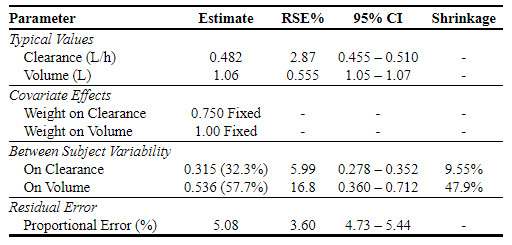
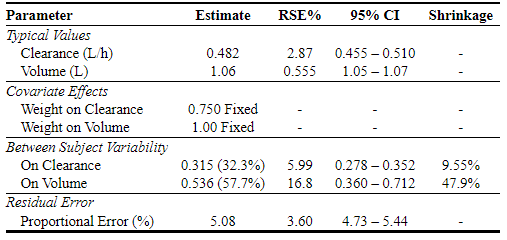
Adjust line thickness

diff --git a/vignettes/pmxpartab-vignette.html b/vignettes/pmxpartab-vignette.html
@@ -17,7 +17,7 @@
 <title>Introduction to pmxpartab</title>
 
[1 lines of base64/hex data omitted]
-<link href="data:text/css,%2ERpmxpartab%20thead%20%7B%0Aborder%2Dtop%3A%201%2E5pt%20solid%20black%3B%0Aborder%2Dbottom%3A%200%2E75pt%20solid%20black%3B%0A%7D%0A%2ERpmxpartab%20tbody%20%7B%0Aborder%2Dtop%3A%200%2E75pt%20solid%20black%3B%0Aborder%2Dbottom%3A%201%2E5pt%20solid%20black%3B%0A%7D%0A%2ERpmxpartab%20thead%3Etr%3Afirst%2Dchild%20%7B%0Aborder%2Dtop%3A%201%2E5pt%20solid%20black%3B%0A%7D%0A%2ERpmxpartab%20thead%3Etr%3Alast%2Dchild%20%7B%0Aborder%2Dbottom%3A%200%2E75pt%20solid%20black%3B%0A%7D%0A%2ERpmxpartab%20thead%3Etr%3Afirst%2Dchild%3Eth%20%7B%0Aborder%2Dtop%3A%201%2E5pt%20solid%20black%3B%0A%7D%0A%2ERpmxpartab%20thead%3Etr%3Alast%2Dchild%3Eth%20%7B%0Aborder%2Dbottom%3A%200%2E75pt%20solid%20black%3B%0A%7D%0A%2ERpmxpartab%20tbody%3Etr%3Afirst%2Dchild%3Etd%20%7B%0Aborder%2Dtop%3A%201%2E5pt%20solid%20black%3B%0A%7D%0A%2ERpmxpartab%20tbody%3Etr%3Alast%2Dchild%3Etd%20%7B%0Aborder%2Dbottom%3A%201%2E5pt%20solid%20black%3B%0A%7D%0A%2ERpmxpartab%20thead%3Etr%3Eth%3Afirst%2Dchild%20%7B%0Atext%2Dalign%3A%20left%3B%0Apadding%2Dleft%3A%200%3B%0A%7D%0A%2ERpmxpartab%20table%20%7B%0Afont%2Dfamily%3A%20%22Times%20New%20Roman%22%2C%20Times%2C%20serif%3B%0Afont%2Dsize%3A%2010pt%3B%0Aborder%2Dcollapse%3A%20collapse%3B%0Apadding%3A%200px%3B%0Amargin%3A%200px%3B%0Aborder%2Dleft%3A%200%3B%0Aborder%2Dright%3A%200%3B%0A%7D%0A%2ERpmxpartab%20th%2C%20%2ERpmxpartab%20td%20%7B%0Apadding%3A%200%2E1ex%201ex%3B%0Atext%2Dalign%3A%20center%3B%0Awhite%2Dspace%3Anowrap%3B%0A%0A%7D%0A%2ERpmxpartab%20th%20%7B%0Apadding%2Dtop%3A%200%2E5ex%3B%0Aborder%2Dbottom%3A%200%2E75pt%20solid%20black%3B%0Avertical%2Dalign%3A%20center%3B%0Abackground%2Dcolor%3A%20%23fff%3B%0A%7D%0A%2ERpmxpartab%20td%20%7B%0Avertical%2Dalign%3A%20top%3B%0A%7D%0A%2ERpmxpartab%20%2Erowlabel%20%7B%0Atext%2Dalign%3A%20left%3B%0A%7D%0A%2ERpmxpartab%20%2Etabletitle%20%7B%0Afont%2Dfamily%3A%20%22Times%20New%20Roman%22%2C%20Times%2C%20serif%3B%0Afont%2Dsize%3A%2012pt%3B%0Afont%2Dweight%3A%20bold%3B%0A%7D%0A%2ERpmxpartab%20%2Etablefooter%20%7B%0Afont%2Dfamily%3A%20%22Times%20New%20Roman%22%2C%20Times%2C%20serif%3B%0Afont%2Dsize%3A%2010pt%3B%0A%7D%0A%2ERpmxpartab%20td%2Epartabsectionheading%20%7B%0Atext%2Dalign%3A%20left%3B%0Afont%2Dstyle%3A%20italic%3B%0Apadding%2Dleft%3A%200%3B%0Aborder%2Dtop%3A%200%2E75pt%20solid%20black%3B%0A%7D%0A%2ERpmxpartab%20td%2Epartablabelnoindent%20%7B%0Atext%2Dalign%3A%20left%3B%0Apadding%2Dleft%3A%200em%3B%0A%7D%0A%2ERpmxpartab%20td%2Epartablabelindent%20%7B%0Atext%2Dalign%3A%20left%3B%0Apadding%2Dleft%3A%201em%3B%0A%7D%0A%2ERpmxpartab%20tfoot%20%7B%0Adisplay%3A%20block%3B%0A%7D%0A%2ERpmxpartab%20tfoot%20tr%20%7B%0Adisplay%3A%20block%3B%0A%7D%0A%2ERpmxpartab%20tfoot%20td%2Epartabfootnote%20%7B%0Adisplay%3A%20block%3B%0Afont%2Dsize%3A%20smaller%3B%0Apadding%3A%200px%3B%0Amargin%3A%200px%3B%0Atext%2Dalign%3A%20left%3B%0A%7D%0A%2ERpmxpartab%20tfoot%20td%2Epartabfootnote%20p%20%7B%0Amargin%3A%201ex%200ex%3B%0A%7D%0A" rel="stylesheet" />
+<link href="data:text/css,%2ERpmxpartab%20thead%20%7B%0Aborder%2Dtop%3A%201%2E5pt%20solid%20black%3B%0Aborder%2Dbottom%3A%200%2E75pt%20solid%20black%3B%0A%7D%0A%2ERpmxpartab%20tbody%20%7B%0Aborder%2Dtop%3A%200%2E75pt%20solid%20black%3B%0Aborder%2Dbottom%3A%201%2E5pt%20solid%20black%3B%0A%7D%0A%2ERpmxpartab%20thead%3Etr%3Afirst%2Dchild%20%7B%0Aborder%2Dtop%3A%201%2E5pt%20solid%20black%3B%0A%7D%0A%2ERpmxpartab%20thead%3Etr%3Alast%2Dchild%20%7B%0Aborder%2Dbottom%3A%200%2E75pt%20solid%20black%3B%0A%7D%0A%2ERpmxpartab%20thead%3Etr%3Afirst%2Dchild%3Eth%20%7B%0Aborder%2Dtop%3A%201%2E5pt%20solid%20black%3B%0A%7D%0A%2ERpmxpartab%20thead%3Etr%3Alast%2Dchild%3Eth%20%7B%0Aborder%2Dbottom%3A%200%2E75pt%20solid%20black%3B%0A%7D%0A%2ERpmxpartab%20tbody%3Etr%3Afirst%2Dchild%3Etd%20%7B%0Aborder%2Dtop%3A%200%2E75pt%20solid%20black%3B%0A%7D%0A%2ERpmxpartab%20tbody%3Etr%3Alast%2Dchild%3Etd%20%7B%0Aborder%2Dbottom%3A%201%2E5pt%20solid%20black%3B%0A%7D%0A%2ERpmxpartab%20thead%3Etr%3Eth%3Afirst%2Dchild%20%7B%0Atext%2Dalign%3A%20left%3B%0Apadding%2Dleft%3A%200%3B%0A%7D%0A%2ERpmxpartab%20table%20%7B%0Afont%2Dfamily%3A%20%22Times%20New%20Roman%22%2C%20Times%2C%20serif%3B%0Afont%2Dsize%3A%2010pt%3B%0Aborder%2Dcollapse%3A%20collapse%3B%0Apadding%3A%200px%3B%0Amargin%3A%200px%3B%0Aborder%2Dleft%3A%200%3B%0Aborder%2Dright%3A%200%3B%0A%7D%0A%2ERpmxpartab%20th%2C%20%2ERpmxpartab%20td%20%7B%0Apadding%3A%200%2E1ex%201ex%3B%0Atext%2Dalign%3A%20center%3B%0Awhite%2Dspace%3Anowrap%3B%0A%0A%7D%0A%2ERpmxpartab%20th%20%7B%0Apadding%2Dtop%3A%200%2E5ex%3B%0Aborder%2Dbottom%3A%200%2E75pt%20solid%20black%3B%0Avertical%2Dalign%3A%20center%3B%0Abackground%2Dcolor%3A%20%23fff%3B%0A%7D%0A%2ERpmxpartab%20td%20%7B%0Avertical%2Dalign%3A%20top%3B%0A%7D%0A%2ERpmxpartab%20%2Erowlabel%20%7B%0Atext%2Dalign%3A%20left%3B%0A%7D%0A%2ERpmxpartab%20%2Etabletitle%20%7B%0Afont%2Dfamily%3A%20%22Times%20New%20Roman%22%2C%20Times%2C%20serif%3B%0Afont%2Dsize%3A%2012pt%3B%0Afont%2Dweight%3A%20bold%3B%0A%7D%0A%2ERpmxpartab%20%2Etablefooter%20%7B%0Afont%2Dfamily%3A%20%22Times%20New%20Roman%22%2C%20Times%2C%20serif%3B%0Afont%2Dsize%3A%2010pt%3B%0A%7D%0A%2ERpmxpartab%20td%2Epartabsectionheading%20%7B%0Atext%2Dalign%3A%20left%3B%0Afont%2Dstyle%3A%20italic%3B%0Apadding%2Dleft%3A%200%3B%0Aborder%2Dtop%3A%200%2E75pt%20solid%20black%3B%0A%7D%0A%2ERpmxpartab%20td%2Epartablabelnoindent%20%7B%0Atext%2Dalign%3A%20left%3B%0Apadding%2Dleft%3A%200em%3B%0A%7D%0A%2ERpmxpartab%20td%2Epartablabelindent%20%7B%0Atext%2Dalign%3A%20left%3B%0Apadding%2Dleft%3A%201em%3B%0A%7D%0A%2ERpmxpartab%20tfoot%20%7B%0Adisplay%3A%20block%3B%0A%7D%0A%2ERpmxpartab%20tfoot%20tr%20%7B%0Adisplay%3A%20block%3B%0A%7D%0A%2ERpmxpartab%20tfoot%20td%2Epartabfootnote%20%7B%0Adisplay%3A%20block%3B%0Afont%2Dsize%3A%20smaller%3B%0Apadding%3A%200px%3B%0Amargin%3A%200px%3B%0Atext%2Dalign%3A%20left%3B%0A%7D%0A%2ERpmxpartab%20tfoot%20td%2Epartabfootnote%20p%20%7B%0Amargin%3A%201ex%200ex%3B%0A%7D%0A" rel="stylesheet" />
 
 <style type="text/css">
   code{white-space: pre-wrap;}
